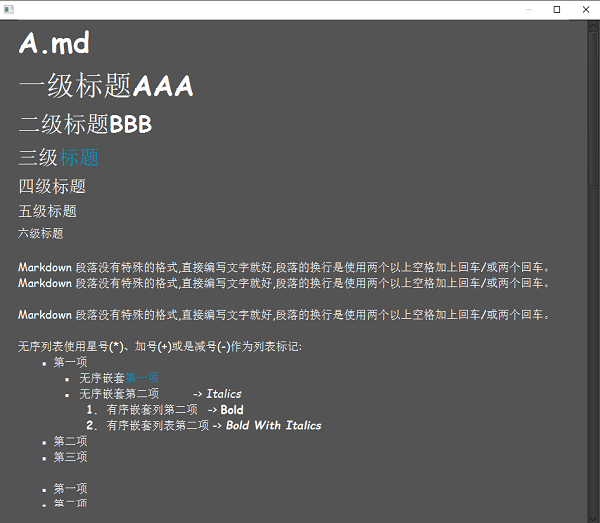
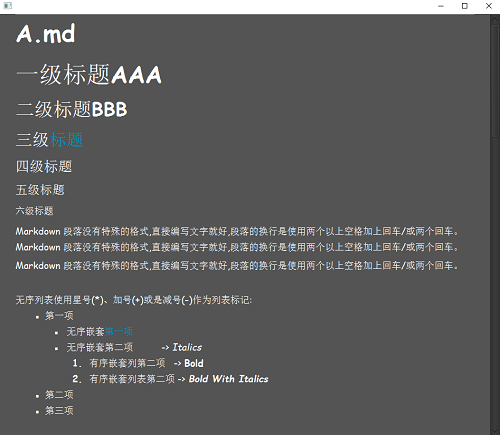
添加集成JavaFX的示例代码和其它修改项

Changed region(s): [[0.0, 0.0, 1.0, 0.9862]]

diff --git a/src/main/kotlin/red/medusa/markdownpanel/view/MarkdownPanel.kt b/src/main/kotlin/red/medusa/markdownpanel/view/MarkdownPanel.kt
@@ -17,8 +17,10 @@ class MarkdownPanelFragment : Fragment() {
     private val parser = MarkdownPanelParser()
 
     init {
+
         this.root = initScrollPanel()
         initMarkdownPanel { root.content = it }
+
         importStylesheet(Styles::class)
         reloadStylesheetsOnFocus()
     }
@@ -37,7 +39,7 @@ class MarkdownPanelFragment : Fragment() {
              * 构建TornadoFX View
              */
             parser.produceView(mkContent.getLines()).apply {
-                spacing = 1.em.value
+                spacing = 5.0
             }
 
         } ui {
@@ -46,6 +48,7 @@ class MarkdownPanelFragment : Fragment() {
     }
 
     private fun initScrollPanel() = scrollpane {
+
         prefWidth = WIDTH
         prefHeight = HEIGHT
 
@@ -61,7 +64,7 @@ class MarkdownPanelFragment : Fragment() {
 
         subscribeHyperlinkEvent()
 
-        addClass(Styles.ParagraphSegment)
+        addClass(Styles.MarkdownPanelFragment)
     }
 
     private fun Component.subscribeHyperlinkEvent() {

diff --git a/src/main/kotlin/red/medusa/markdownpanel/ParseStrategy.kt b/src/main/kotlin/red/medusa/markdownpanel/ParseStrategy.kt
@@ -161,6 +161,7 @@ enum class ParseStrategy {
     ;
 
     companion object {
+        val blankLineReg = Regex("""^[ ]{0,3}(\n|\r)""")
         val nestUnsortedListRegex = Regex("""^(\s{4}|\t)+[-+*]\s""")
         val nestOrderedListRegex = Regex("""^(\s{4}|\t)+(\d+\.)+\s""")
         val overFourBlankSpaceRegex = Regex("""^[ ]{4,}""")
@@ -177,7 +178,7 @@ enum class ParseStrategy {
 
     private val logger = Logger.getLogger(this.javaClass.name)!!
 
-    fun lineIsBlank(text: String) = Regex("""^[ ]{0,3}(\n|\r)""").containsMatchIn(text) || text.isEmpty()
+    fun lineIsBlank(text: String) = text.isEmpty() || blankLineReg.containsMatchIn(text)
     fun LineData.lastWithCurrentLineIsBlank() = this.getLastLine().isLine
             && lineIsBlank(this.getLastLine().text)
             && lineIsBlank(this.line.text)

diff --git a/src/main/kotlin/red/medusa/markdownpanel/service/MarkdownPanelParser.kt b/src/main/kotlin/red/medusa/markdownpanel/service/MarkdownPanelParser.kt
@@ -58,9 +58,10 @@ class MarkdownPanelParser {
         markdownPanel.clear()
         lines.forEach {
             when (it.tagParse) {
-                TagParse.TagType.PARAGRAPH -> {
-                    it.maybeNeedToMakeChunked(isNeedTrim = true, isNeedLinefeed = false)
-                }
+                // 出于方便使用的目的,不遵循传统的两换行才算换行的规范了
+//                TagParse.TagType.PARAGRAPH -> {
+//                    it.maybeNeedToMakeChunked(isNeedTrim = true, isNeedLinefeed = false)
+//                }
                 TagParse.TagType.CODE_AREA_1 -> {
                     it.maybeNeedToMakeChunked()
                 }

diff --git a/src/main/kotlin/red/medusa/markdownpanel/view/MarkdownFileListView.kt b/src/main/kotlin/red/medusa/markdownpanel/view/MarkdownFileListView.kt
@@ -8,7 +8,6 @@ import tornadofx.*
 class MarkdownFileListView : View() {
 
     private val fileModel: MKFileModel by inject()
-
     private val markdownFileStore: MarkdownFileStore by inject()
 
     override val root = vbox {
@@ -26,7 +25,7 @@ class MarkdownFileListView : View() {
             bindSelected(fileModel)
             setOnMouseClicked {
                 if (fileModel.item != null && fileModel.item.exists())
-                    find<MarkdownPanelFragment>().openWindow(owner = null)
+                   find<MarkdownPanelFragment>().openWindow(owner = null)
             }
         }
     }

diff --git a/src/main/kotlin/red/medusa/markdownpanel/view/SegmentView.kt b/src/main/kotlin/red/medusa/markdownpanel/view/SegmentView.kt
@@ -3,9 +3,9 @@ package red.medusa.markdownpanel.view
 import javafx.geometry.Pos
 import javafx.scene.Node
 import javafx.scene.image.Image
+import javafx.scene.layout.HBox
 import javafx.scene.layout.Pane
 import javafx.scene.layout.Priority
-import javafx.scene.paint.Color
 import red.medusa.markdownpanel.Data
 import red.medusa.markdownpanel.InlineText
 import red.medusa.markdownpanel.pt
@@ -448,7 +448,7 @@ class BlankSegment : Segment() {
         inlineText: InlineText?
     ): Pane? {
         str.debug()
-        return null
+        return HBox()
     }
 }
 

diff --git a/src/main/kotlin/red/medusa/markdownpanel/view/Styles.kt b/src/main/kotlin/red/medusa/markdownpanel/view/Styles.kt
@@ -9,6 +9,7 @@ import tornadofx.*
 
 class Styles : Stylesheet() {
     companion object {
+        val MarkdownPanelFragment by cssclass()
         val lineNumber by cssclass()
         val bold by cssclass()
         val italics by cssclass()
@@ -41,6 +42,9 @@ class Styles : Stylesheet() {
     }
 
     init {
+        MarkdownPanelFragment{
+            +baseMixin
+        }
         hyperlink {
             borderColor += box(Color.TRANSPARENT)
             borderWidth += box(0.px)

diff --git a/src/main/resources/styles/MarkdownPanelForJavaFXDemo.css b/src/main/resources/styles/MarkdownPanelForJavaFXDemo.css
@@ -1,0 +1,21 @@
+.markdown-panel-fragment {}
+.line-number {}
+.bold {}
+.italics {}
+.bold-italics {}
+.padding-tow {}
+.one-title-segment {}
+.tow-title-segment {}
+.three-title-segment {}
+.four-title-segment {}
+.five-title-segment {}
+.six-title-segment {}
+.ordered-segment {}
+.list-padding {}
+.paragraph-segment {}
+.separator-segment {}
+.coder-area {
+    /*测试*/
+    /*-fx-background-color:  #ff4eb0!important;*/
+}
+.coder-area-color {}

diff --git a/src/test/kotlin/markdown/MarkdownTest.kt b/src/test/kotlin/markdown/MarkdownTest.kt
@@ -9,13 +9,17 @@ class MarkdownTest {
 
     @Test
     fun strategyTest() {
-
+//        Profile.TEST =  true
         val filePath = Data::class.java.classLoader.getResource("data/markdown-file/mk/A.md")?.file
         val data = Data(File(filePath))
 
         data
             .prepared()         // 准备数据
             .parse()            // 构建数据
+
+        data.getLines().forEach {
+            println(it)
+        }
     }
 
 }

diff --git a/src/main/java/red/medusa/markdownpanel/Integrate_to_javafx_demo/MarkdownPanelForJavaFXDemo.java b/src/main/java/red/medusa/markdownpanel/Integrate_to_javafx_demo/MarkdownPanelForJavaFXDemo.java
@@ -1,0 +1,87 @@
+package red.medusa.markdownpanel.Integrate_to_javafx_demo;
+
+import javafx.application.Application;
+import javafx.scene.Scene;
+import javafx.scene.control.Button;
+import javafx.scene.control.Label;
+import javafx.scene.control.ScrollPane;
+import javafx.scene.layout.VBox;
+import javafx.stage.Modality;
+import javafx.stage.Stage;
+import red.medusa.markdownpanel.model.MKFileModel;
+import red.medusa.markdownpanel.view.MarkdownPanelFragment;
+import tornadofx.FX;
+
+import java.io.File;
+
+public class MarkdownPanelForJavaFXDemo extends Application {
+
+    /**
+     * 第一步准备markdown文件并将该文件注入MKFileModel
+     */
+    public MarkdownPanelForJavaFXDemo() {
+        File markdownFile = new File(MarkdownPanelForJavaFXDemo.class.getResource("/data/markdown-file/mk/B.md").getFile());
+        MKFileModel fileModel = FX.find(MKFileModel.class);
+        fileModel.setItem(markdownFile);
+    }
+
+    @Override
+    public void start(Stage stage) {
+
+        Label label = new Label(TEXT);
+        label.setWrapText(true);
+        label.setStyle("-fx-font-family: \"Comic Sans MS\"; -fx-font-size: 20; -fx-text-fill: darkred;");
+
+        Button button = new Button("创建MarkdownPanel");
+        button.setStyle(
+                "-fx-font-family: \"Comic Sans MS\"; " +
+                        "-fx-font-size: 20; " +
+                        "-fx-text-fill: #dc1002;" +
+                        "-fx-border-radius: 5px;" +
+                        "-fx-background-color: #dd7f03;-fx-cursor:hand"
+        );
+        button.setMaxWidth(Double.MAX_VALUE);
+        button.setOnAction(e -> display());
+
+        VBox layout = new VBox();
+        layout.setSpacing(50.0);
+        layout.setStyle("-fx-background-color: #ffcd80; -fx-padding: 10;");
+        layout.getChildren().setAll(label, button);
+
+        stage.setTitle("Markdown Panel Demo");
+        stage.setScene(new Scene(layout, 600.0, 300.0));
+        stage.show();
+    }
+
+    private void display() {
+        Stage window = new Stage();
+        window.initModality(Modality.NONE);
+        window.setTitle("MarkdownPanel");
+        window.setMinWidth(250);
+
+        /**
+         * 第二步获得MarkdownPanelFragment并得到它的ScrollPane
+         */
+        ScrollPane scrollPane = (ScrollPane) FX.find(MarkdownPanelFragment.class).getRoot();
+        Scene scene = new Scene(scrollPane);
+        // 这里主要是为了使用MarkdownPanelFragment自带的样式
+        FX.Companion.applyStylesheetsTo(scene);
+
+        /**
+         * 使用自定义样式覆盖
+         */
+//        FX.Companion.getStylesheets().clear();
+        scene.getStylesheets().addAll("/styles/MarkdownPanelForJavaFXDemo.css");
+
+        window.setScene(scene);
+        window.show();
+    }
+
+    private static final String TEXT = " MarkdownPanel与JavaFX集成非常简单,只需要两个步骤。\n\n" +
+            "第一步:第一步准备markdown文件并将该文件注入MKFileModel \n" +
+            "第二步:获得MarkdownPanelFragment并得到它的ScrollPane";
+
+    public static void main(String[] args) {
+        Application.launch(args);
+    }
+}

diff --git a/README.md b/README.md
@@ -1,6 +1,28 @@
-#### 一个**粗糙**的Markdown解析器,主要用来返回TornadoFX控件的可视化View组件...
+# MarkdownPanel
+MarkdownPanel是一个Markdown解析器,主要用来返回TornadoFX控件的可视化View组件
 
----
+# 使用
+
+```kotlin
+class MarkdownFileListView : View() {
+    // 注入MKFileModel用于设置markdown文件 -> fileModel.item = File([markdown文件路径])
+    private val fileModel: MKFileModel by inject()
+    override val root = vbox {
+        listview(markdownFileStore.mkFiles) {
+            // ...
+            setOnMouseClicked {
+                   /**
+                    *  MarkdownPanelFragment会完成解析并得到最终的View
+                    *  你可以将该View添加到任何TornadoFX组件中
+                    */
+                   find<MarkdownPanelFragment>().openWindow(owner = null)
+            }
+        }
+    }
+}
+```
+
+# 例
 
 
 
@@ -10,10 +32,54 @@
 
 ![alt](src/main/resources/data/markdown-file/img/3.png)
 
+# 与JavaFX集成
+#### MarkdownPanel与JavaFX集成非常简单,只需要两个步骤。
+- 第一步:第一步准备markdown文件并将该文件注入MKFileModel
+- 第二步:获得MarkdownPanelFragment并得到它的ScrollPane
+- 第三部:是用自己的CSS样式覆盖掉默认的样式
+
+示例代码参考: [MarkdownPanelForJavaFXDemo.java](src/main/java/red/medusa/markdownpanel/Integrate_to_javafx_demo/MarkdownPanelForJavaFXDemo.java)
+
+![alt](src/main/resources/data/markdown-file/img/4.png)
 
 
+# API
 
----
+```kotlin
+val filePath = Data::class.java.classLoader.getResource("data/markdown-file/mk/A.md")?.file
+val data = Data(File(filePath))
 
----
+    data
+        .prepared()         // 准备数据
+        .parse()            // 构建数据
+    
+	// 这里就可以获得所有markdown成品信息了,我们可以用这些信息完成自己的个性化解析,不论是
+	// 使用TornadoFX或JavaFX,或GroovyFX...
+    data.getLines().forEach {
+                println(it)
+            }  
+    // ------------------------- output : -------------------------        
+    //  Line(number=1, text=A.md, inlineText=null, prefix=null, postfix=null, tagParse=TITLE, segmentView=class red.medusa.markdownpanel.view.OneTitleSegment, isHandle=false, isLine=true)
+    //  Line(number=2, text=, inlineText=null, prefix=null, postfix=null, tagParse=BLANK, segmentView=class red.medusa.markdownpanel.view.BlankSegment, isHandle=false, isLine=true)
+    //  ...  
+```
 
+`Line`表示解析之后的每一行,根据`Line`来进行第二道解析完成TornadoFX View,它包含了提供给`Segment`的所有信息
+
+```kotlin
+    data class Line(
+        val number: Int,
+        var text: String,
+        var segmentView: KClass<out Segment> = ParagraphSegment::class        // 解析成段落的具体实现类
+        //  ...
+    ) 
+```
+
+`Segment`实际上是一个生成JavaFX布局控件的组件,利用它最终完成所需的视图控件,例如像Panel或HBox之类的控件
+
+```kotlin
+  class Segment : Pane() {
+    // ...
+     open fun getSegment(/*... */ ): Pane? = vbox { }
+  }
+```

diff --git a/src/main/resources/data/markdown-file/mk/B.md b/src/main/resources/data/markdown-file/mk/B.md
@@ -9,7 +9,6 @@
 
 
 Markdown 段落没有特殊的格式,直接编写文字就好,段落的换行是使用两个以上空格加上回车/或两个回车。
-
 Markdown 段落没有特殊的格式,直接编写文字就好,段落的换行是使用两个以上空格加上回车/或两个回车。
 
 
@@ -17,7 +16,6 @@ Markdown 段落没有特殊的格式,直接编写文字就好,段落的换行是
 
 
 无序列表使用星号(*)、加号(+)或是减号(-)作为列表标记:
-* [Apache Wicket](https://github.com/apache/wicket) component tree, see [MarkupContainer](https://github.com/apache/wicket/blob/b60ec64d0b50a611a9549809c9ab216f0ffa3ae3/wicket-core/src/main/java/org/apache/wicket/MarkupContainer.java)
 * 第一项
     * 无序嵌套[第一项](www.baidu.com)
     * 无序嵌套第二项          -> _Italics_
@@ -74,11 +72,11 @@ Markdown 段落没有特殊的格式,直接编写文字就好,段落的换行是
 <www.baidu.com>
 
 
-Markdown使用星号/双星、底线/双底线表示斜体*Italics*和粗体**Bold**(星号)
-斜体_Italics_和粗体__Bold__(底线)。
+Markdown使用星号/双星、底线/双底线表示斜体*Italics*和粗体**Bold**(星号)斜体_Italics_和粗体__Bold__(底线)。
 粗斜体使用三星号***Bold With Italics***或三底线___Bold With Italics___表示,
 链接使用中括号表示链接名,括号表示地址,例如: [链接名称](www.baidu.com),
-或直接使用尖括号<www.baidu.com>,图片格式:![alt 属性文本](../img/img.jpg "可选标题")
+或直接使用尖括号<www.baidu.com>,图片格式: 
+![alt 属性文本](../img/img.jpg "可选标题")
 
 
 

diff --git a/src/main/resources/data/markdown-file/mk/A.md b/src/main/resources/data/markdown-file/mk/A.md
@@ -7,11 +7,8 @@
 ##### 五级标题
 ###### 六级标题
 
-
 Markdown 段落没有特殊的格式,直接编写文字就好,段落的换行是使用两个以上空格加上回车/或两个回车。
-
 Markdown 段落没有特殊的格式,直接编写文字就好,段落的换行是使用两个以上空格加上回车/或两个回车。
-
 
 Markdown 段落没有特殊的格式,直接编写文字就好,段落的换行是使用两个以上空格加上回车/或两个回车。
 
@@ -78,11 +75,9 @@ Markdown 段落没有特殊的格式,直接编写文字就好,段落的换行是
 <www.baidu.com>
 
 
-Markdown使用星号/双星、底线/双底线表示斜体*Italics*和粗体**Bold**(星号)
-斜体_Italics_和粗体__Bold__(底线)。
+Markdown使用星号/双星、底线/双底线表示斜体*Italics*和粗体**Bold**(星号)斜体_Italics_和粗体__Bold__(底线)。
 粗斜体使用三星号***Bold With Italics***或三底线___Bold With Italics___表示,
 链接使用中括号表示链接名,括号表示地址,例如: [链接名称](www.baidu.com),
-或直接使用尖括号<www.baidu.com>,图片格式:![alt 属性文本](../img/img.jpg "可选标题")
-
-
+或直接使用尖括号<www.baidu.com>,图片格式: 
+![alt 属性文本](../img/img.jpg "可选标题")
 
